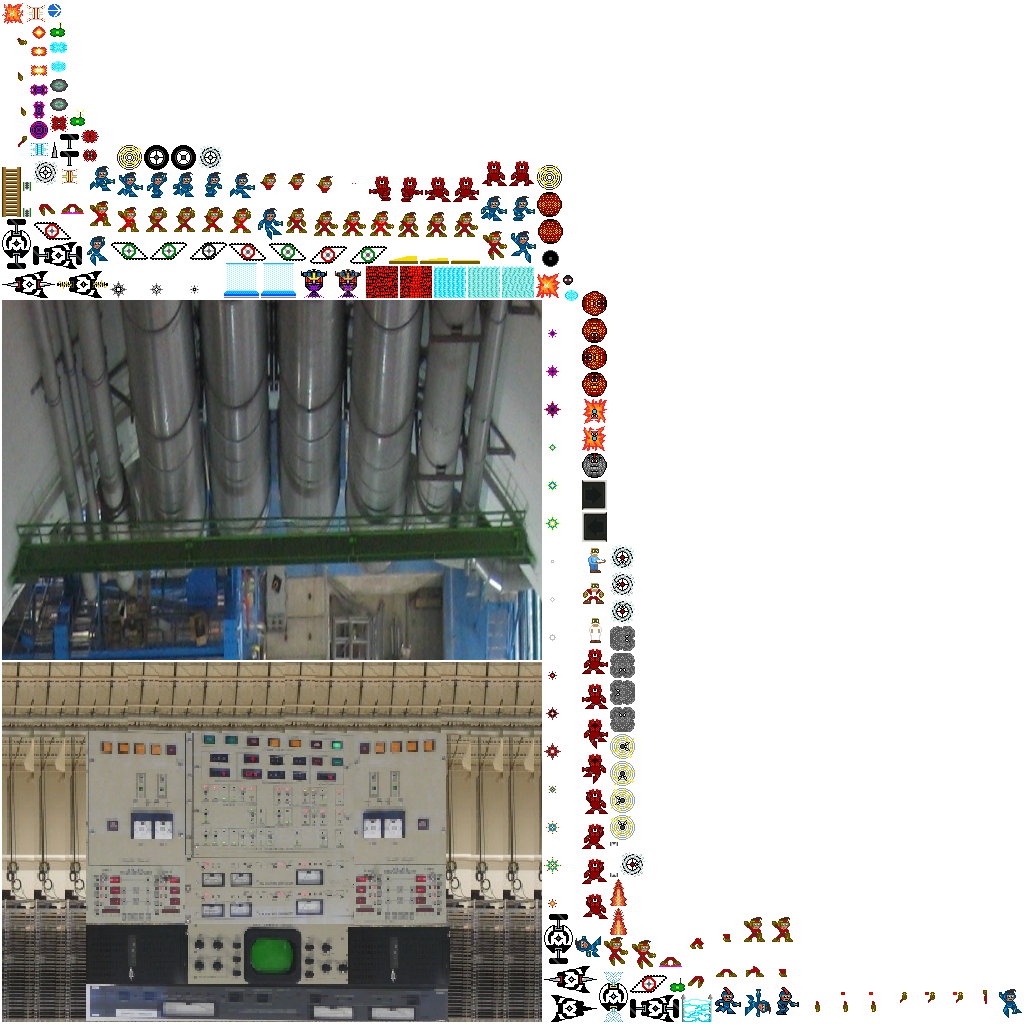
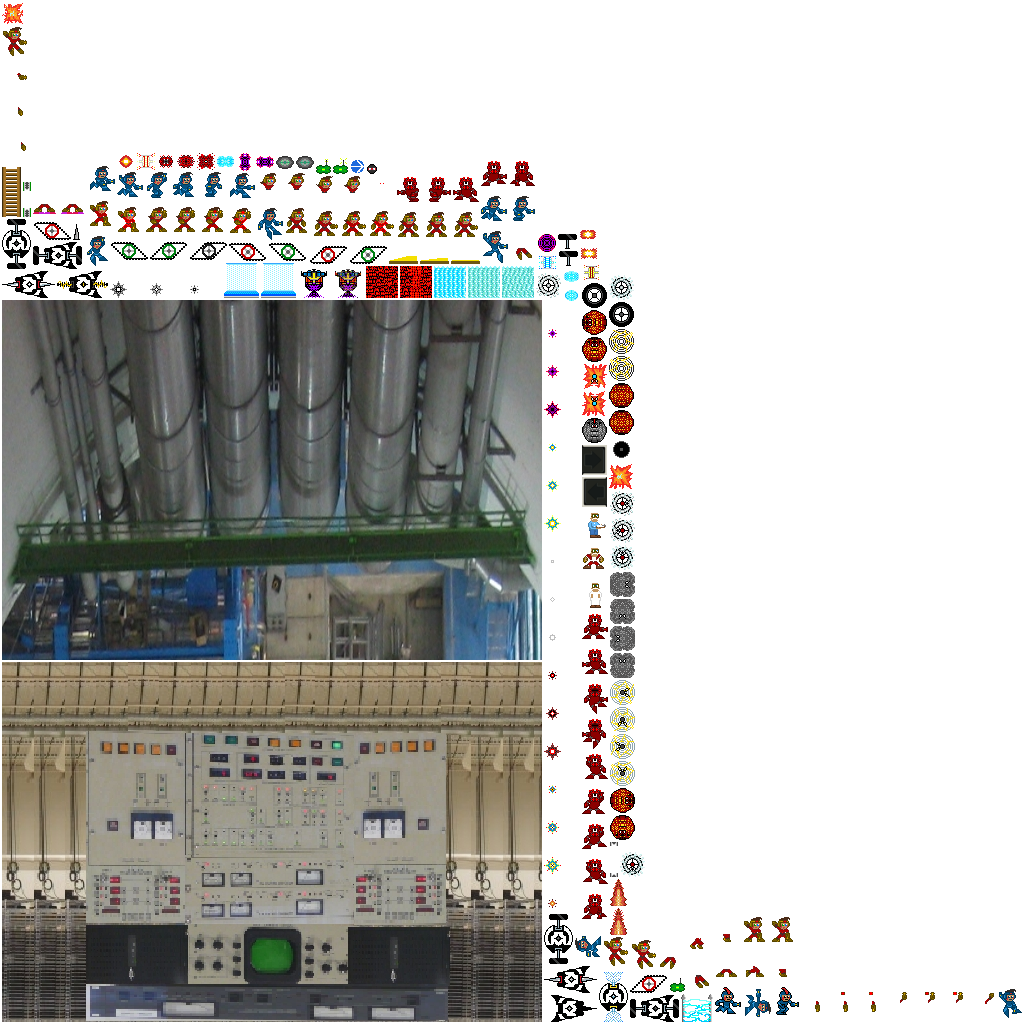
added torso and legs recoil sprites

diff --git a/core/src/com/udacity/gamedev/gigagal/entity/Avatar.java b/core/src/com/udacity/gamedev/gigagal/entity/Avatar.java
@@ -1547,19 +1547,18 @@ public class Avatar extends Entity implements Impermeable, Humanoid {
                 legs = AssetManager.getInstance().getAvatarAssets().legsHover.getKeyFrame(hoverTimeSeconds);
                 break;
             case RAPPELLING:
-                torso = AssetManager.getInstance().getAvatarAssets().torso.getKeyFrame(fallTimeSeconds * Math.max(Math.abs(velocity.x / Constants.AVATAR_MAX_SPEED), .33f));
+                torso = AssetManager.getInstance().getAvatarAssets().torso.getKeyFrame(0);
                 backArm = AssetManager.getInstance().getAvatarAssets().reach;
-                frontArm = AssetManager.getInstance().getAvatarAssets().pointForward.getKeyFrame(0);
+                frontArm = AssetManager.getInstance().getAvatarAssets().release;
                 shoot = AssetManager.getInstance().getAvatarAssets().pointForward;
                 legs = AssetManager.getInstance().getAvatarAssets().legsRappel;
-//            if (canHurdle) {
-//                region = AssetManager.getInstance().getAvatarAssets().grasp;
-//            } else {
-//                region = AssetManager.getInstance().getAvatarAssets().rappel;
-//            }
                 break;
             case RECOILING:
-//                region = AssetManager.getInstance().getAvatarAssets().recoil;
+                torso = AssetManager.getInstance().getAvatarAssets().torsoRecoil;
+                backArm = AssetManager.getInstance().getAvatarAssets().armSwing.getKeyFrame(2);
+                frontArm = AssetManager.getInstance().getAvatarAssets().pointForward.getKeyFrame(0);
+                shoot = AssetManager.getInstance().getAvatarAssets().pointForward;
+                legs = AssetManager.getInstance().getAvatarAssets().legsRecoil;
                 break;
         }
 
@@ -1568,7 +1567,6 @@ public class Avatar extends Entity implements Impermeable, Humanoid {
                 backArm = AssetManager.getInstance().getAvatarAssets().clench;
                 frontArm = AssetManager.getInstance().getAvatarAssets().pointUp.getKeyFrame(0);
                 shoot = AssetManager.getInstance().getAvatarAssets().pointUp;
-
             } else {
                 backArm = AssetManager.getInstance().getAvatarAssets().reach;
                 frontArm = AssetManager.getInstance().getAvatarAssets().pointDown.getKeyFrame(0);

diff --git a/core/src/com/udacity/gamedev/gigagal/util/Constants.java b/core/src/com/udacity/gamedev/gigagal/util/Constants.java
@@ -98,6 +98,7 @@ public final class Constants {
     public static final String TORSO = "avatar-torso";
     public static final String TORSO_1 = "avatar-torso-1";
     public static final String TORSO_2 = "avatar-torso-2";
+    public static final String TORSO_RECOIL = "avatar-torso-recoil";
     public static final String ARM_RELEASE = "avatar-arm-release";
     public static final String ARM_RELAX = "avatar-arm-relax";
     public static final String ARM_CLENCH = "avatar-arm-clench";
@@ -116,6 +117,7 @@ public final class Constants {
     public static final String LEGS_STAND = "avatar-legs-stand";
     public static final String LEGS_FALL = "avatar-legs-fall";
     public static final String LEGS_RAPPEL = "avatar-legs-rappel";
+    public static final String LEGS_RECOIL = "avatar-legs-recoil";
     public static final String LEGS_STRIDE_1 = "avatar-legs-stride-1";
     public static final String LEGS_STRIDE_2 = "avatar-legs-stride-2";
     public static final String LEGS_STRIDE_3 = "avatar-legs-stride-3";

diff --git a/core/src/com/udacity/gamedev/gigagal/util/AssetManager.java b/core/src/com/udacity/gamedev/gigagal/util/AssetManager.java
@@ -134,6 +134,8 @@ public final class AssetManager implements AssetErrorListener {
         public final AtlasRegion legsStand;
         public final AtlasRegion legsFall;
         public final AtlasRegion legsRappel;
+        public final AtlasRegion legsRecoil;
+        public final AtlasRegion torsoRecoil;
         public final Animation torso;
         public final Animation armCurl;
         public final Animation armSwing;
@@ -185,6 +187,8 @@ public final class AssetManager implements AssetErrorListener {
             legsStand = atlas.findRegion(Constants.LEGS_STAND);
             legsFall = atlas.findRegion(Constants.LEGS_FALL);
             legsRappel = atlas.findRegion(Constants.LEGS_RAPPEL);
+            legsRecoil = atlas.findRegion(Constants.LEGS_RECOIL);
+            torsoRecoil = atlas.findRegion(Constants.TORSO_RECOIL);
             
             Array<AtlasRegion> torsoFrames = new Array<AtlasRegion>();
             torsoFrames.add(atlas.findRegion(Constants.TORSO));
